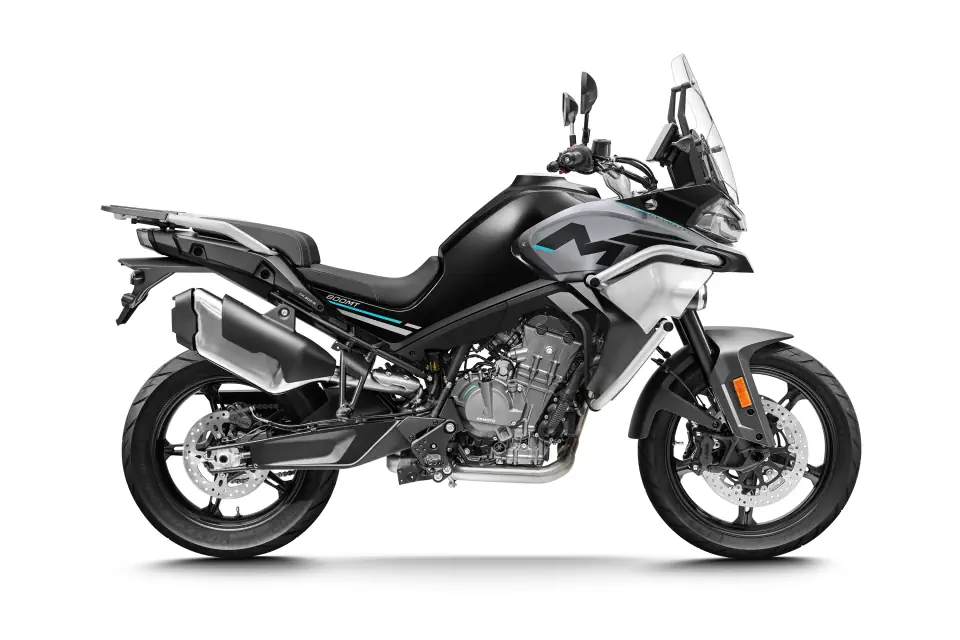
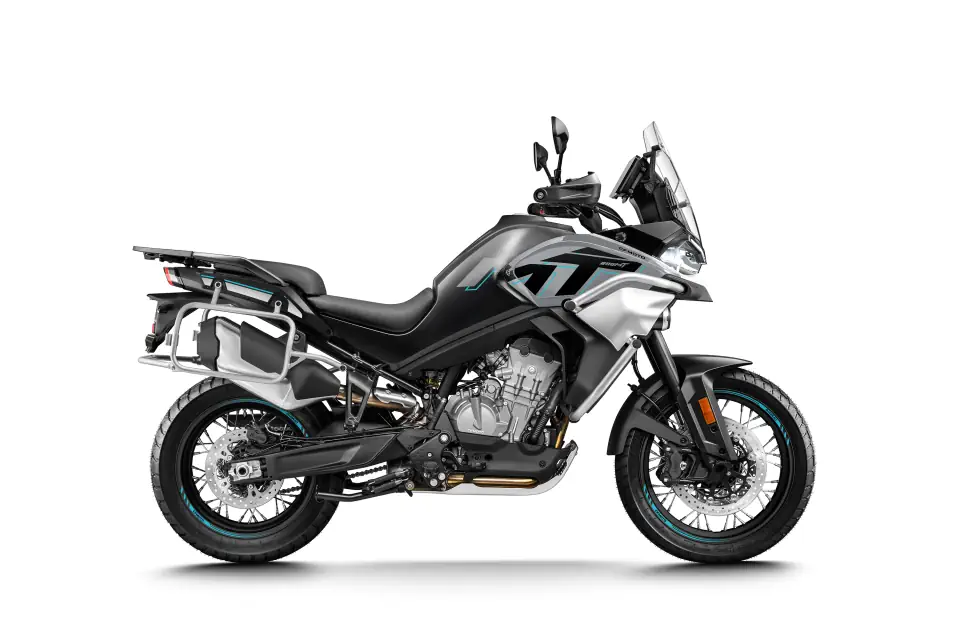
Update CFMoto

Changed region(s): [[0.0938, 0.0938, 0.9062, 0.9062]]

diff --git a/src/app/components/cfmoto/cfmoto.component.html b/src/app/components/cfmoto/cfmoto.component.html
@@ -116,7 +116,7 @@
           ></app-bike-card-extern>
 
           <app-bike-card-extern
-            image="/bikes/cfmoto/800MT_sport_black.webp"
+            image="/bikes/cfmoto/800MTX_side_black.webp"
             title="800 MT-X (Zwart)"
             buttonName="Meer details"
             buttonLink="https://cfmotobenelux.com/model/800mt-x/"
